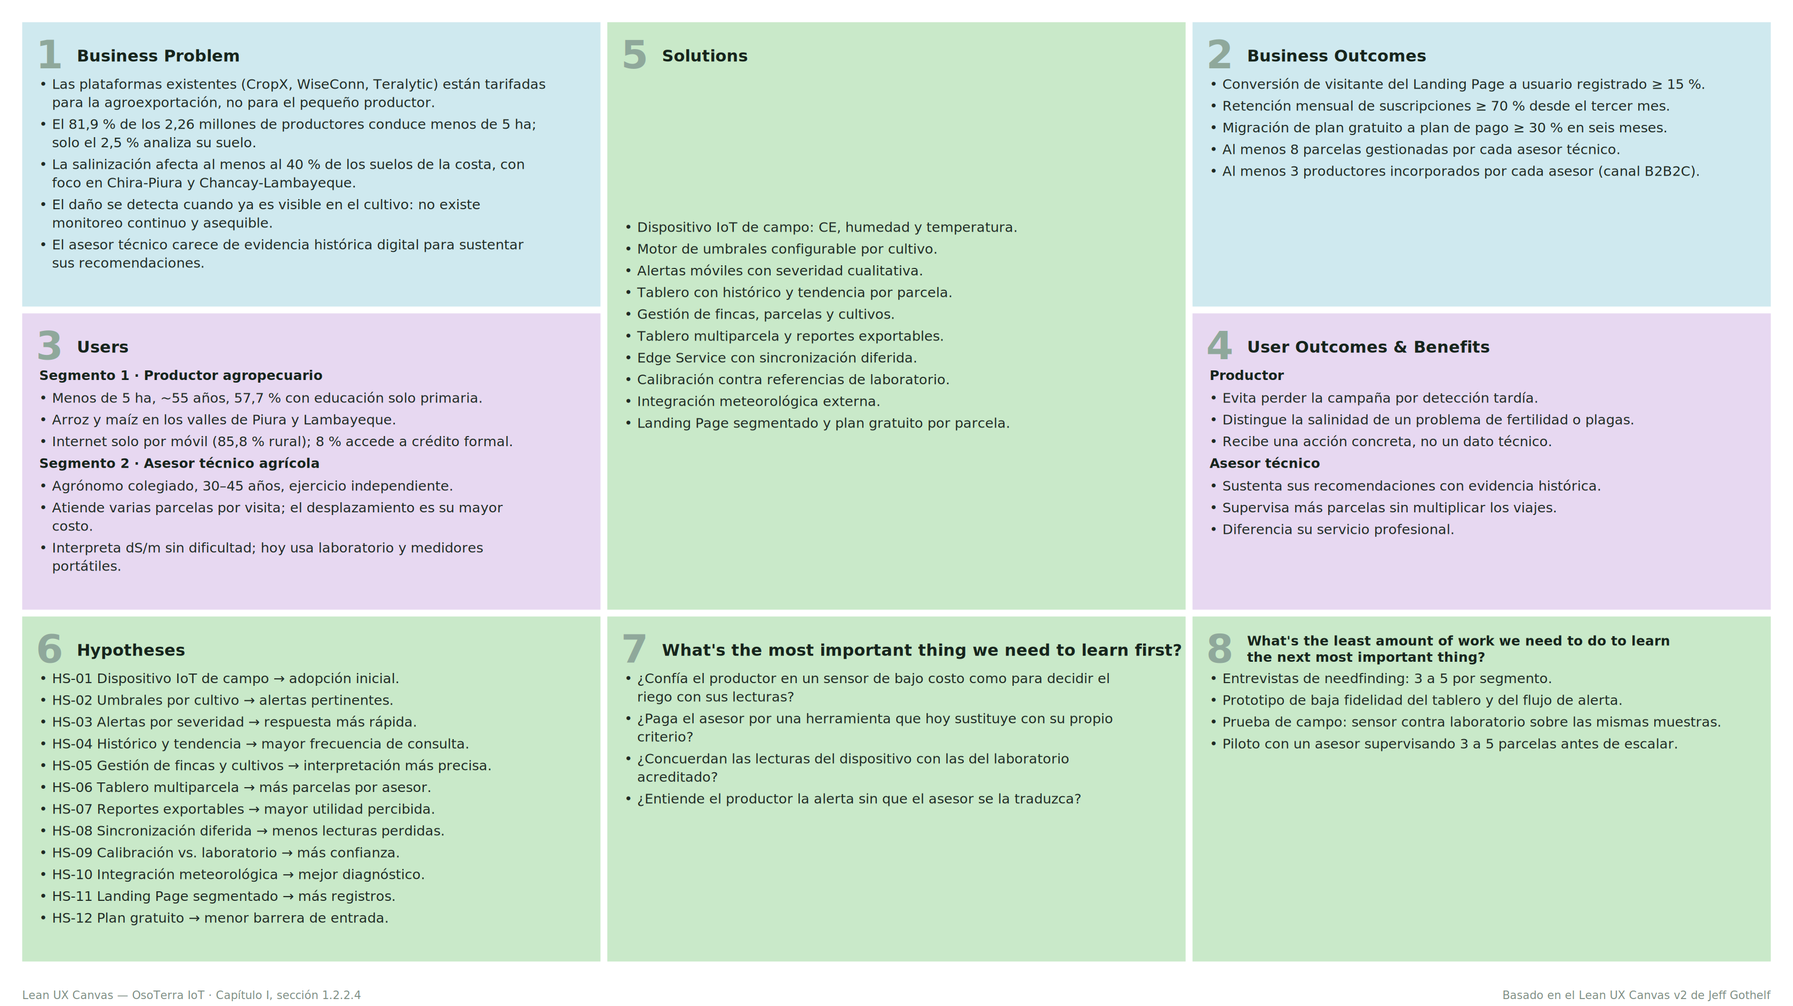
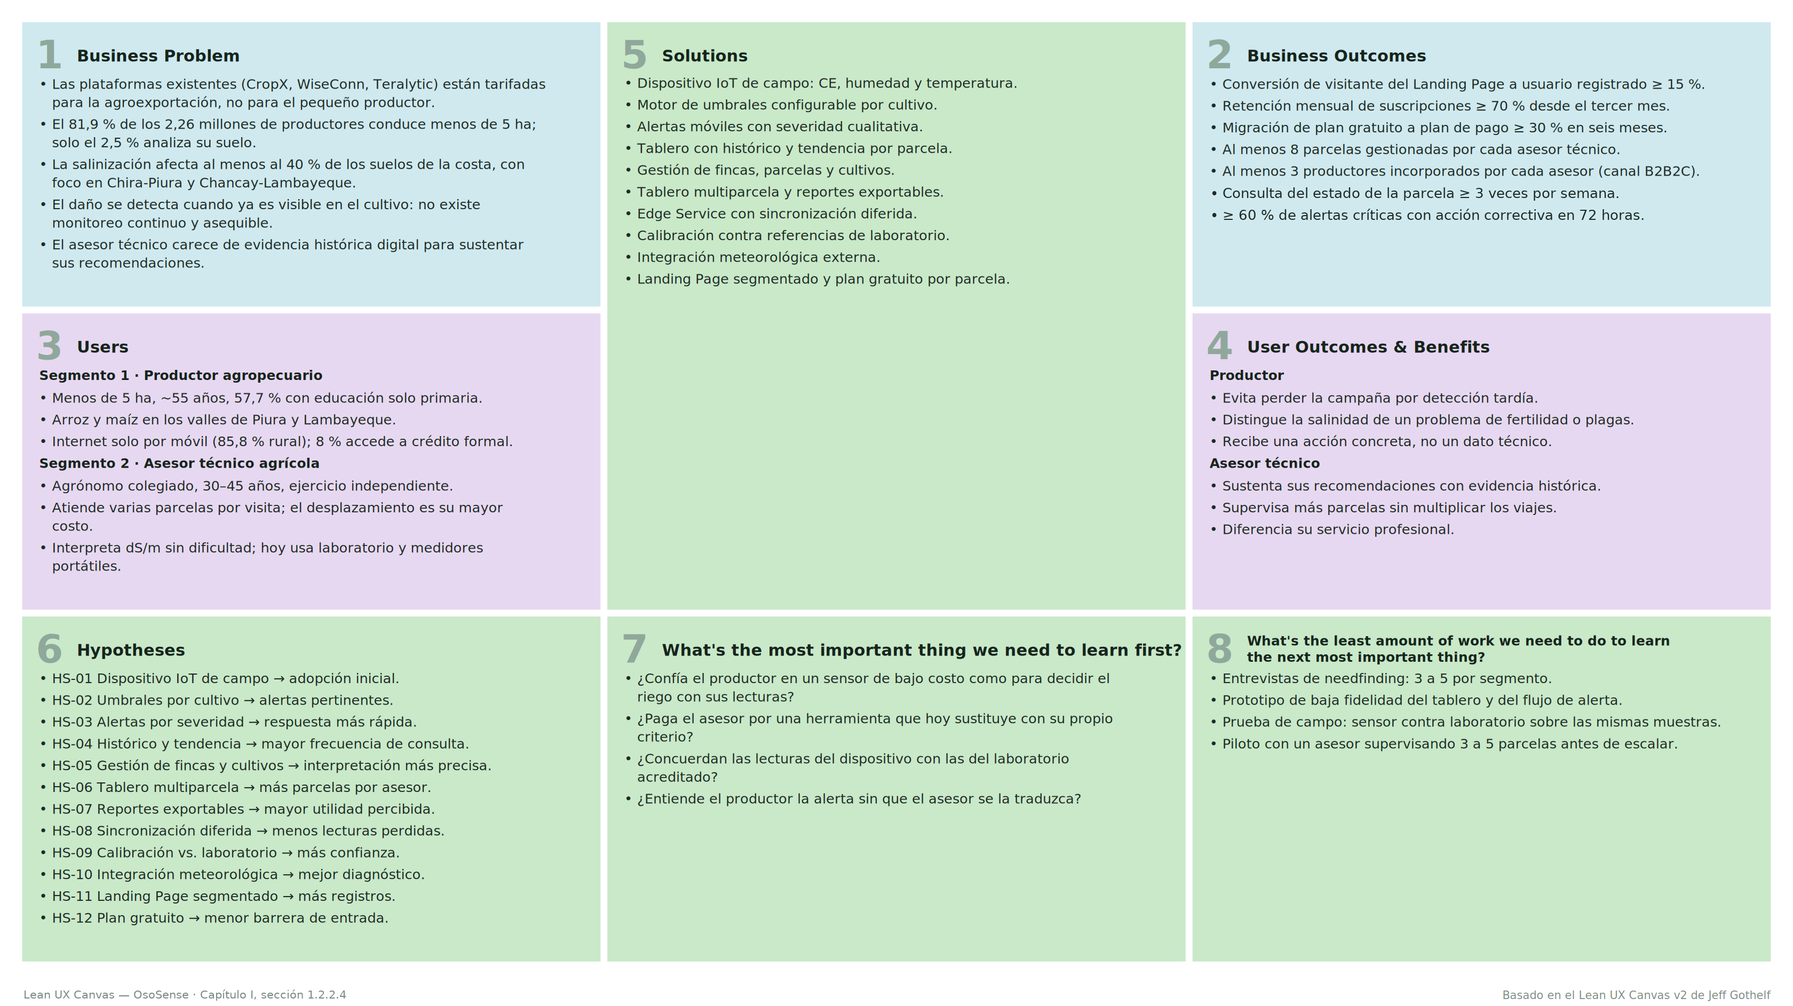
docs(chapter-1): add objectives, scope limits and hypothesis ids

Changed region(s): [[0.3438, 0.0615, 0.5625, 0.4308], [0.6875, 0.1846, 0.9062, 0.2154], [0.0, 0.9846, 0.2188, 1.0]]

diff --git a/chapters/chapter1.md b/chapters/chapter1.md
@@ -27,12 +27,12 @@ El nombre **Oso Terra** combina la idea de vigilancia y resistencia asociada al 
 | Foto del estudiante | Nombres y apellidos | Código de estudiante | Descripción |
 |---|---|---|---|
 | <img src="../assets/members/Iker_Barturen.png" alt="Barturen Panez, Iker Gabriel" width="120"> | Barturen Panez, Iker Gabriel | u202312629 | Estudiante de Ingeniería de Software. Participa en la documentación del proyecto, revisión de perfiles y organización de recursos para el informe. |
-| <img src="https://i.imgur.com/dCNE1N0.jpeg" alt="Encalada Salazar, Alexis" width="120"> | Encalada Salazar, Alexis | u20211g481 | Estudiante de Ingeniería de Software. Apoya en el desarrollo conceptual del producto, revisión de secciones del informe y análisis de necesidades de usuarios. |
-| <img src="https://i.imgur.com/GByNzjm.png" alt="Goñe Araccata, Esther Abigail" width="120"> | Goñe Araccata, Esther Abigail | u202318049 | Estudiante de Ingeniería de Software. Participa en la elaboración del informe, análisis del problema y organización de los artefactos del proyecto OsoSense. |
-| <img src="../assets/members/Osito.jpeg" alt="Ortiz Alarcon, Victor Nicolas" width="120"> | Ortiz Alarcon, Victor Nicolas | u202312899 | Estudiante de Ingeniería de Software. Participa en la estructuración del repositorio, redacción del Capítulo I y organización de la documentación del proyecto. |
-| <img src="../assets/members/Alvaro_Salazar.jpg" alt="Salazar Caballero, Alvaro Fabrizzio" width="120"> | Salazar Caballero, Alvaro Fabrizzio | u202321941 | Estudiante de Ingeniería de Software. Contribuye en la investigación del contexto agrícola, definición de requerimientos y documentación de la solución IoT. |
-| <img src="https://i.imgur.com/g7mWVo0.jpeg" alt="Santiago Peña, Andreow Jomark" width="120"> | Santiago Peña, Andreow Jomark | u202317362 | Estudiante de Ingeniería de Software. Contribuye en el análisis de la solución, documentación técnica y revisión colaborativa de los contenidos del informe. |
-| <img src="https://i.imgur.com/pbg4HYE.png" alt="Tumi Oliden, Manuel Ignacio" width="120"> | Tumi Oliden, Manuel Ignacio | u20241c134 | Estudiante de Ingeniería de Software. Apoya en la investigación del producto, definición de criterios de diseño y consolidación de información del equipo. |
+| <img src="../assets/members/Alexis_Encalada.jpeg" alt="Encalada Salazar, Alexis" width="120"> | Encalada Salazar, Alexis | u20211g481 | Estudiante de Ingeniería de Software. Apoya en el desarrollo conceptual del producto, revisión de secciones del informe y análisis de necesidades de usuarios. |
+| <img src="../assets/members/Esther_Gone.png" alt="Goñe Araccata, Esther Abigail" width="120"> | Goñe Araccata, Esther Abigail | u202318049 | Estudiante de Ingeniería de Software. Participa en la elaboración del informe, análisis del problema y organización de los artefactos del proyecto OsoSense. |
+| <img src="../assets/members/Victor_Ortiz.jpeg" alt="Ortiz Alarcon, Victor Nicolas" width="120"> | Ortiz Alarcon, Victor Nicolas | u202312899 | Estudiante de Ingeniería de Software. Participa en la estructuración del repositorio, redacción del Capítulo I y organización de la documentación del proyecto. |
+| <img src="../assets/members/Alvaro_Salazar.jpg" alt="Salazar Caballero, Alvaro Fabrizzio" width="120"> | Salazar Caballero, Alvaro Fabrizzio | u202321941 | Estudiante de Ingeniería de Software. Contribuye en la investigación del contexto agrícola, definición de requisitos y documentación de la solución IoT. |
+| <img src="../assets/members/Andreow_Santiago.jpeg" alt="Santiago Peña, Andreow Jomark" width="120"> | Santiago Peña, Andreow Jomark | u202317362 | Estudiante de Ingeniería de Software. Contribuye en el análisis de la solución, documentación técnica y revisión colaborativa de los contenidos del informe. |
+| <img src="../assets/members/Manuel_Tumi.png" alt="Tumi Oliden, Manuel Ignacio" width="120"> | Tumi Oliden, Manuel Ignacio | u20241c134 | Estudiante de Ingeniería de Software. Apoya en la investigación del producto, definición de criterios de diseño y consolidación de información del equipo. |
 
 ## 1.2. Solution Profile
 
@@ -112,6 +112,43 @@ El resultado combinado es que la detección llega tarde, de forma puntual, y sol
 
 *En capacidad de recepción.* Frente a todo lo anterior, **el 85,8 % de la población rural accede a internet mediante telefonía móvil**, lo que demuestra que el canal para entregar la información ya existe y está instalado; lo que falta es el instrumento asequible que la genere.
 
+#### Enunciado del problema
+
+Los pequeños y medianos productores de la costa peruana, y los asesores técnicos que los acompañan, no cuentan con un medio asequible y continuo para conocer la salinidad de sus parcelas. La salinización avanza durante toda la campaña, pero se detecta tarde, con análisis de laboratorio esporádicos, costosos y lentos, o con medidores portátiles que exigen presencia física y no dejan historial. Como resultado, las decisiones de riego y manejo se toman sin evidencia y la pérdida de rendimiento se descubre cuando ya es irreversible.
+
+#### Puntos clave que debe resolver la solución
+
+1. **Monitoreo continuo:** capturar de forma periódica la conductividad eléctrica, la humedad y la temperatura del suelo de cada parcela, sin que alguien deba estar presente en el campo.
+2. **Interpretación según el cultivo:** comparar cada lectura, compensada por temperatura, con el umbral de tolerancia del cultivo registrado en la parcela.
+3. **Alerta temprana y accionable:** avisar al productor y a su asesor en un lenguaje simple, con un nivel de severidad y una acción recomendada.
+4. **Historial y tendencia:** conservar las lecturas para mostrar la evolución de la salinidad y respaldar las recomendaciones del asesor.
+5. **Supervisión de varias parcelas:** permitir que el asesor priorice sus visitas comparando el estado de las parcelas de sus clientes.
+6. **Operación con conectividad intermitente:** no perder lecturas cuando el campo se queda sin señal.
+7. **Confianza en la medición:** contrastar las lecturas del dispositivo con análisis de laboratorio.
+
+#### Objetivos
+
+**Objetivo general.** Desarrollar OsoSense, una solución IoT de bajo costo que monitoree de forma continua la salinidad del suelo agrícola y la traduzca en alertas y recomendaciones comprensibles para pequeños y medianos productores y para sus asesores técnicos.
+
+**Objetivos específicos.**
+
+1. Construir un prototipo físico del dispositivo IoT, con una Embedded Application que mida conductividad eléctrica, humedad y temperatura del suelo.
+2. Implementar un Edge Service que valide, compense por temperatura y almacene localmente las lecturas, y que las sincronice con la plataforma al recuperar la conexión.
+3. Implementar un RESTful API que gestione cuentas, suscripciones, fincas, parcelas, cultivos, lecturas, alertas y reportes.
+4. Desarrollar una Web Application y una Mobile Application con interfaz adaptable, integradas con el RESTful API, para el productor y el asesor técnico.
+5. Publicar un Landing Page con contenido diferenciado para cada segmento y call-to-action hacia las aplicaciones.
+6. Integrar al menos un servicio externo de terceros, como información meteorológica, para enriquecer la interpretación de las lecturas.
+
+#### Restricciones y alcance
+
+- **Variables medidas:** el alcance se limita a conductividad eléctrica, humedad y temperatura del suelo. No incluye pH, nutrientes (NPK) ni imágenes satelitales o de drones.
+- **Complemento del laboratorio:** OsoSense es una herramienta de detección temprana y seguimiento de tendencia. No reemplaza el análisis de laboratorio acreditado ni emite diagnósticos formales.
+- **Monitoreo, no control:** la solución no acciona sistemas de riego ni de fertirriego; entrega información y recomendaciones para que el usuario decida.
+- **Costo del dispositivo:** el hardware debe basarse en componentes de bajo costo y disponibilidad local, como el microcontrolador ESP32, para mantener un precio de acceso muy inferior al de las sondas comerciales.
+- **Conectividad:** la solución debe tolerar la conectividad móvil intermitente propia del campo y priorizar el uso desde el teléfono móvil.
+- **Foco inicial:** pequeños y medianos productores de la costa, empezando por los valles de Piura y Lambayeque, y los asesores técnicos que los atienden.
+- **Plazo y tecnología:** el proyecto se desarrolla durante el ciclo académico 2026-20, con las herramientas y tecnologías establecidas por el curso. Las interfaces usan inglés como idioma por defecto e incluyen español latinoamericano mediante i18n.
+
 ### 1.2.2. Lean UX Process
 
 El equipo aplicó el **Lean UX Process** para ordenar las principales creencias del proyecto antes de iniciar la construcción de la solución. De acuerdo con las instrucciones del enunciado, este proceso parte del dominio del problema, identifica los segmentos afectados, precisa los dolores actuales, reconoce la brecha que no cubren las alternativas existentes y formula una estrategia inicial de producto.
@@ -190,39 +227,39 @@ Los assumptions se organizaron siguiendo las cinco categorías solicitadas en el
 
 #### 1.2.2.3. Lean UX Hypothesis Statements
 
-De acuerdo con las instrucciones del statement, se formula un Hypothesis Statement por cada Feature Assumption. Cada hipótesis expresa una creencia sobre una característica, el segmento beneficiado, el resultado esperado y la forma en que se validará si dicha creencia es correcta.
+De acuerdo con las instrucciones del enunciado, se formula un Hypothesis Statement por cada Feature Assumption. Cada hipótesis se identifica con un código (HS-01 a HS-12) que corresponde, en el mismo orden, a la Feature Assumption que la origina, y que se usa en el Lean UX Canvas. Cada hipótesis expresa una creencia sobre una característica, el segmento beneficiado, el resultado esperado y la forma en que se validará si dicha creencia es correcta.
 
-Creemos que ofrecer un dispositivo IoT de campo que mida conductividad eléctrica, humedad y temperatura para pequeños y medianos productores agrícolas y asesores técnicos logrará aumentar la adopción inicial de OsoSense al brindar monitoreo continuo del estado del suelo. Sabremos que esto es cierto cuando los usuarios piloto consulten las lecturas del dispositivo de forma recurrente durante las pruebas de validación.
+**HS-01.** Creemos que ofrecer un dispositivo IoT de campo que mida conductividad eléctrica, humedad y temperatura para pequeños y medianos productores agrícolas y asesores técnicos logrará aumentar la adopción inicial de OsoSense al brindar monitoreo continuo del estado del suelo. Sabremos que esto es cierto cuando los usuarios piloto consulten las lecturas del dispositivo de forma recurrente durante las pruebas de validación.
 
-Creemos que implementar un motor de umbrales configurables por cultivo para productores agrícolas y asesores técnicos logrará reducir las alertas poco pertinentes al evaluar cada parcela según el cultivo registrado. Sabremos que esto es cierto cuando, en escenarios de prueba con cultivos distintos, las alertas generadas correspondan al nivel de tolerancia definido para cada cultivo.
+**HS-02.** Creemos que implementar un motor de umbrales configurables por cultivo para productores agrícolas y asesores técnicos logrará reducir las alertas poco pertinentes al evaluar cada parcela según el cultivo registrado. Sabremos que esto es cierto cuando, en escenarios de prueba con cultivos distintos, las alertas generadas correspondan al nivel de tolerancia definido para cada cultivo.
 
-Creemos que enviar notificaciones móviles por nivel de severidad para productores agrícolas logrará una respuesta más rápida ante niveles críticos de salinidad. Sabremos que esto es cierto cuando, en una prueba de uso, los productores identifiquen la alerta crítica y seleccionen una acción correctiva recomendada sin requerir explicación adicional.
+**HS-03.** Creemos que enviar notificaciones móviles por nivel de severidad para productores agrícolas logrará una respuesta más rápida ante niveles críticos de salinidad. Sabremos que esto es cierto cuando, en una prueba de uso, los productores identifiquen la alerta crítica y seleccionen una acción correctiva recomendada sin requerir explicación adicional.
 
-Creemos que ofrecer un tablero con histórico y tendencia por parcela para productores agrícolas y asesores técnicos logrará aumentar la frecuencia de consulta de la plataforma al facilitar la comprensión de la evolución de la salinidad. Sabremos que esto es cierto cuando los usuarios puedan explicar si el estado del suelo mejora, empeora o se mantiene estable a partir de la visualización histórica.
+**HS-04.** Creemos que ofrecer un tablero con histórico y tendencia por parcela para productores agrícolas y asesores técnicos logrará aumentar la frecuencia de consulta de la plataforma al facilitar la comprensión de la evolución de la salinidad. Sabremos que esto es cierto cuando los usuarios puedan explicar si el estado del suelo mejora, empeora o se mantiene estable a partir de la visualización histórica.
 
-Creemos que permitir la gestión de fincas, parcelas y cultivos para productores agrícolas y asesores técnicos logrará una interpretación más precisa de las mediciones al asociar cada lectura con su contexto agrícola. Sabremos que esto es cierto cuando cada dispositivo registrado pueda vincularse correctamente con una finca, una parcela y un cultivo durante la prueba funcional.
+**HS-05.** Creemos que permitir la gestión de fincas, parcelas y cultivos para productores agrícolas y asesores técnicos logrará una interpretación más precisa de las mediciones al asociar cada lectura con su contexto agrícola. Sabremos que esto es cierto cuando cada dispositivo registrado pueda vincularse correctamente con una finca, una parcela y un cultivo durante la prueba funcional.
 
-Creemos que ofrecer un tablero multiparcela para asesores técnicos independientes logrará que supervisen más parcelas desde la plataforma al comparar rápidamente el estado de varios clientes. Sabremos que esto es cierto cuando, en un escenario de prueba con múltiples parcelas, el asesor pueda identificar cuáles requieren atención prioritaria sin revisar cada parcela por separado.
+**HS-06.** Creemos que ofrecer un tablero multiparcela para asesores técnicos independientes logrará que supervisen más parcelas desde la plataforma al comparar rápidamente el estado de varios clientes. Sabremos que esto es cierto cuando, en un escenario de prueba con múltiples parcelas, el asesor pueda identificar cuáles requieren atención prioritaria sin revisar cada parcela por separado.
 
-Creemos que generar reportes exportables por parcela y periodo para asesores técnicos independientes logrará fortalecer la utilidad percibida de OsoSense al permitir sustentar recomendaciones ante productores. Sabremos que esto es cierto cuando los asesores puedan generar un reporte con lecturas, tendencia y recomendación asociada durante una prueba de validación.
+**HS-07.** Creemos que generar reportes exportables por parcela y periodo para asesores técnicos independientes logrará fortalecer la utilidad percibida de OsoSense al permitir sustentar recomendaciones ante productores. Sabremos que esto es cierto cuando los asesores puedan generar un reporte con lecturas, tendencia y recomendación asociada durante una prueba de validación.
 
-Creemos que incorporar un servicio de borde con almacenamiento local y sincronización diferida para productores ubicados en zonas con conectividad intermitente logrará reducir la pérdida de lecturas en campo. Sabremos que esto es cierto cuando las mediciones capturadas sin conexión se conserven localmente y se sincronicen correctamente al restablecerse la conectividad.
+**HS-08.** Creemos que incorporar un servicio de borde con almacenamiento local y sincronización diferida para productores ubicados en zonas con conectividad intermitente logrará reducir la pérdida de lecturas en campo. Sabremos que esto es cierto cuando las mediciones capturadas sin conexión se conserven localmente y se sincronicen correctamente al restablecerse la conectividad.
 
-Creemos que incluir un módulo de calibración y validación para productores agrícolas y asesores técnicos logrará aumentar la confianza en el dispositivo al contrastar las mediciones de OsoSense con referencias de laboratorio. Sabremos que esto es cierto cuando los usuarios puedan revisar la comparación entre ambas mediciones y declarar que la lectura del dispositivo es confiable para tomar decisiones preliminares.
+**HS-09.** Creemos que incluir un módulo de calibración y validación para productores agrícolas y asesores técnicos logrará aumentar la confianza en el dispositivo al contrastar las mediciones de OsoSense con referencias de laboratorio. Sabremos que esto es cierto cuando los usuarios puedan revisar la comparación entre ambas mediciones y declarar que la lectura del dispositivo es confiable para tomar decisiones preliminares.
 
-Creemos que integrar información meteorológica externa para productores agrícolas y asesores técnicos logrará mejorar la interpretación del diagnóstico del suelo al relacionar las variaciones de salinidad con lluvia y condiciones ambientales. Sabremos que esto es cierto cuando los usuarios puedan identificar si un cambio en las lecturas coincide con un evento meteorológico relevante.
+**HS-10.** Creemos que integrar información meteorológica externa para productores agrícolas y asesores técnicos logrará mejorar la interpretación del diagnóstico del suelo al relacionar las variaciones de salinidad con lluvia y condiciones ambientales. Sabremos que esto es cierto cuando los usuarios puedan identificar si un cambio en las lecturas coincide con un evento meteorológico relevante.
 
-Creemos que diseñar un Landing Page con contenido diferenciado por segmento para productores agrícolas y asesores técnicos logrará incrementar la conversión de visitantes a registros. Sabremos que esto es cierto cuando los visitantes identifiquen con claridad la propuesta de valor correspondiente a su rol y completen el formulario de registro o manifiesten intención de contacto.
+**HS-11.** Creemos que diseñar un Landing Page con contenido diferenciado por segmento para productores agrícolas y asesores técnicos logrará incrementar la conversión de visitantes a registros. Sabremos que esto es cierto cuando los visitantes identifiquen con claridad la propuesta de valor correspondiente a su rol y completen el formulario de registro o manifiesten intención de contacto.
 
-Creemos que ofrecer un plan gratuito limitado para pequeños productores agrícolas logrará reducir la barrera de entrada y aumentar la activación inicial de OsoSense. Sabremos que esto es cierto cuando los productores puedan probar la solución en una parcela sin pago recurrente y completar el flujo inicial de registro y monitoreo.
+**HS-12.** Creemos que ofrecer un plan gratuito limitado para pequeños productores agrícolas logrará reducir la barrera de entrada y aumentar la activación inicial de OsoSense. Sabremos que esto es cierto cuando los productores puedan probar la solución en una parcela sin pago recurrente y completar el flujo inicial de registro y monitoreo.
 
 #### 1.2.2.4. Lean UX Canvas
 
 El Lean UX Canvas consolida en un solo artefacto los resultados de las secciones anteriores y los convierte en un plan de aprendizaje. El equipo lo recorrió en el orden propuesto por Jeff Gothelf: se parte del problema de negocio, se define cómo se vería el éxito en términos de comportamiento observable, se identifica a quién debe cambiar ese comportamiento y qué gana con ello, y solo entonces se proponen soluciones. Los tres últimos bloques traducen esas apuestas en hipótesis verificables y en el experimento mínimo necesario para reducir incertidumbre.
 
 <div align="center">
-<img src="../assets/lean-ux-canvas/Lean%20UX%20Canvas%20IoT.png" alt="Lean UX Canvas OsoTerra IoT" width="100%"/>
-<p><em>Figura 3. Lean UX Canvas de OsoTerra IoT.</em></p>
+<img src="../assets/lean-ux-canvas/Lean%20UX%20Canvas%20IoT.png" alt="Lean UX Canvas OsoSense" width="100%"/>
+<p><em>Figura. Lean UX Canvas de OsoSense.</em></p>
 </div>
 
 | # | Bloque | Contenido |

diff --git a/versions.md b/versions.md
@@ -64,6 +64,7 @@
 | 0.0.60 | 17/09/2026 | Andreow Jomark Santiago Peña | Incorporación de Event Consumers en Interface Layer y Event Handlers en Application Layer para los bounded contexts del Capítulo IV, alineados con los eventos del Context Mapping. |
 | 0.0.61 | 17/09/2026 | Iker Gabriel Barturen Panez | Completar la Tabla de Contenidos, la sección Student Outcome, Project Report Collaboration Insights, y el avance de Conclusiones, Bibliografía y Anexos requeridos para la entrega AV1. |
 | 0.0.62 | 18/09/2026 | Andreow Jomark Santiago Peña | Corrección de términos y referencias del Capítulo IV: carácter extraño en la introducción del C4 Model, término "librería", rutas a código fuente inexistentes y nota obsoleta sobre el ERD de IAM. |
+| 0.0.63 | 18/09/2026 | Andreow Jomark Santiago Peña | Capítulo I: incorporación del enunciado del problema, puntos clave, objetivos y restricciones en Antecedentes y problemática; códigos HS-01 a HS-12 en los Hypothesis Statements; Lean UX Canvas con los siete Business Outcomes; imágenes de integrantes alojadas en el repositorio. |
 
 # Project Report Collaboration Insights
 

diff --git a/content.md b/content.md
@@ -13,6 +13,10 @@
   - [1.2. Solution Profile](chapters/chapter1.md#12-solution-profile)
     - [1.2.1. Antecedentes y problemática](chapters/chapter1.md#121-antecedentes-y-problemática)
       - [Aplicación de la técnica 5W + 2H](chapters/chapter1.md#aplicación-de-la-técnica-5w--2h)
+      - [Enunciado del problema](chapters/chapter1.md#enunciado-del-problema)
+      - [Puntos clave que debe resolver la solución](chapters/chapter1.md#puntos-clave-que-debe-resolver-la-solución)
+      - [Objetivos](chapters/chapter1.md#objetivos)
+      - [Restricciones y alcance](chapters/chapter1.md#restricciones-y-alcance)
     - [1.2.2. Lean UX Process](chapters/chapter1.md#122-lean-ux-process)
       - [1.2.2.1. Lean UX Problem Statements](chapters/chapter1.md#1221-lean-ux-problem-statements)
       - [1.2.2.2. Lean UX Assumptions](chapters/chapter1.md#1222-lean-ux-assumptions)
